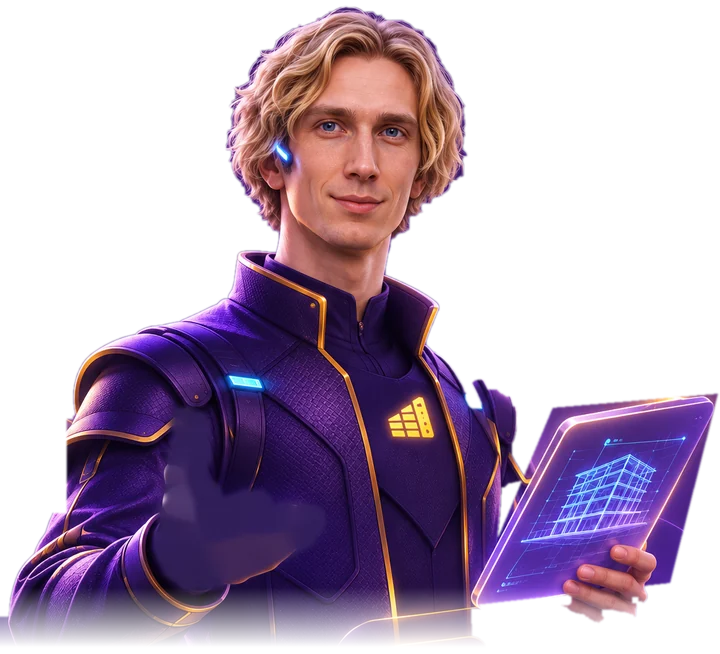
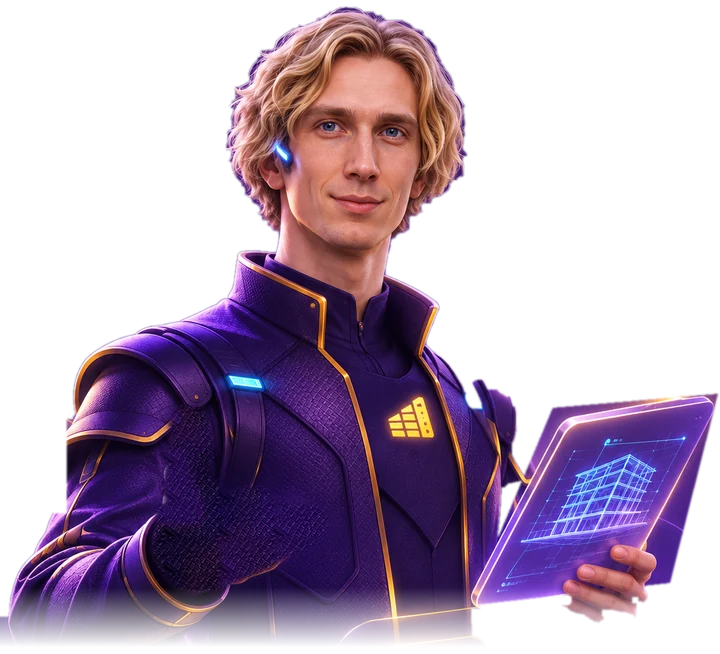
assistant: плавный жест руки без разрывов
Под кистью — настоящая текстура куртки вместо светлой заплатки;
кисть поворачивается от запястья и не отрывается от манжеты.

Claude-Session: https://claude.ai/code/session_0162eeMvttQp9KM5xphjwDHH

Changed region(s): [[0.2139, 0.6116, 0.4583, 0.9174]]

diff --git a/frontend/src/components/AiAssistantWidget.css b/frontend/src/components/AiAssistantWidget.css
@@ -97,7 +97,7 @@
   pointer-events: none;
 }
 .arm-g-hand img { display: block; width: 100%; height: 100%; }
-.arm-g-hand.is-swipe { animation: arm-swipe 1.05s cubic-bezier(0.45, 0, 0.3, 1); }
+.arm-g-hand.is-swipe { animation: arm-swipe 1.1s cubic-bezier(0.45, 0, 0.35, 1); }
 
 /* кольцо-панель */
 .arm-ring {
@@ -414,10 +414,12 @@
 @keyframes arm-breathe { 0%, 100% { transform: scale(1) translateY(0); } 50% { transform: scale(1.012) translateY(-1.5px); } }
 @keyframes arm-hover { 0%, 100% { transform: translateY(0); } 50% { transform: translateY(-6px); } }
 @keyframes arm-swipe {
-  0% { transform: rotate(0) translate(0, 0); }
-  30% { transform: rotate(13deg) translate(-7%, 3%); }
-  70% { transform: rotate(-10deg) translate(12%, -2%); }
-  100% { transform: rotate(0) translate(0, 0); }
+  /* кисть проводит по панели: замах вниз-влево и проводка вправо, от запястья */
+  0% { transform: rotate(0); }
+  28% { transform: rotate(7deg) translate(-1.5%, 1%); }
+  68% { transform: rotate(-6deg) translate(2.5%, -0.5%); }
+  100% { transform: rotate(0); }
+}
 }
 @keyframes arm-sweep { to { stroke-dashoffset: -100; } }
 @keyframes arm-sway { 0%, 100% { transform: rotate(-1.2deg); } 50% { transform: rotate(1.4deg); } }
